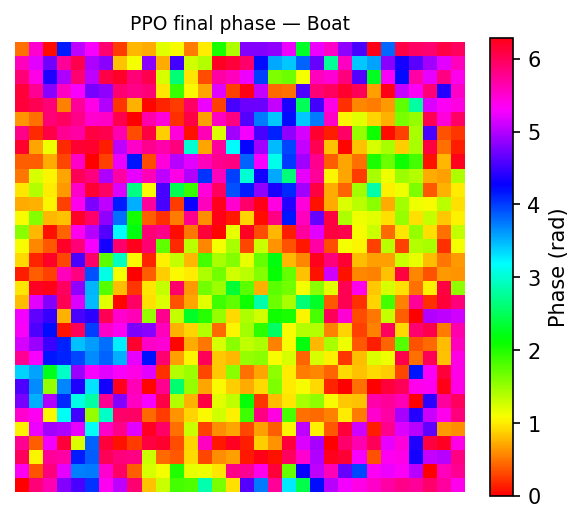
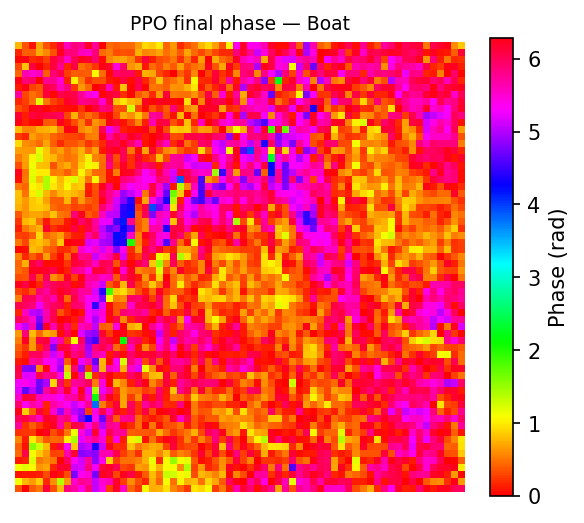
修改了一些

diff --git a/train_holographic_ppo.py b/train_holographic_ppo.py
@@ -150,9 +150,14 @@ class HolographicTask:
 # 训练循环
 # ---------------------------------------------------------------------------
 
-def train(task, policy, trainer, n_iter, M, eval_every, snap_iters):
+def train(task, policy, trainer, n_iter, M, eval_every, snap_iters,
+          sigma_final: float = None):
     """
     执行 PPO 训练循环。
+
+    Args:
+        sigma_final : 若指定，则 sigma 从初始值线性退火到 sigma_final；
+                      退火有助于后期精细收敛，推荐设为 sigma/4 左右。
 
     Returns:
         times_sec : list[float] —— 每次评估的 wall-clock 时间 (s)
@@ -165,7 +170,15 @@ def train(task, policy, trainer, n_iter, M, eval_every, snap_iters):
     seen_snaps = set()
     t0 = time.time()
 
+    sigma_init = policy.sigma
+    do_anneal  = (sigma_final is not None) and (sigma_final < sigma_init)
+
     for it in range(1, n_iter + 1):
+        # sigma 线性退火：前期大探索，后期精细收敛
+        if do_anneal:
+            alpha = (it - 1) / max(n_iter - 1, 1)
+            policy.sigma = sigma_init * (1.0 - alpha) + sigma_final * alpha
+
         phi    = policy.sample(M)
         losses = task.compute_losses(phi)
         trainer.update(phi, losses)
@@ -182,8 +195,11 @@ def train(task, policy, trainer, n_iter, M, eval_every, snap_iters):
                 seen_snaps.add(it)
 
             if it % (eval_every * 10) == 0 or it == 1 or it == n_iter:
-                print(f"  iter={it:4d}  t={t:.1f}s  PSNR={p:.2f} dB")
+                sigma_str = f"  σ={policy.sigma:.3f}" if do_anneal else ""
+                print(f"  iter={it:4d}  t={t:.1f}s  PSNR={p:.2f} dB{sigma_str}")
 
+    # 恢复初始 sigma（避免多目标训练时状态污染）
+    policy.sigma = sigma_init
     return times_sec, psnr_vals, snapshots
 
 
@@ -320,7 +336,7 @@ def save_phase_pattern(phase, path, title):
 
 def parse_args():
     p = argparse.ArgumentParser(description='全息图像生成实验复现 (论文 Fig. 5)')
-    p.add_argument('--n_iter',         type=int,   default=10000)
+    p.add_argument('--n_iter',         type=int,   default=1000)
     p.add_argument('--M',              type=int,   default=256,
                    help='每轮采样数（论文物理：32；仿真推荐：256）')
     p.add_argument('--K',              type=int,   default=4,
@@ -329,6 +345,8 @@ def parse_args():
     p.add_argument('--lr',             type=float, default=0.3)
     p.add_argument('--epsilon',        type=float, default=0.02,
                    help='PPO 截断参数 ε')
+    p.add_argument('--sigma_final',    type=float, default=None,
+                   help='sigma 退火终止值；None = 不退火（推荐设为 sigma 的 1/3，如 0.05）')
     p.add_argument('--pixel_grouping', type=int,   default=4,
                    help='像素分组大小 g；g=1 → DOF=256')
     p.add_argument('--eval_every',     type=int,   default=20)
@@ -390,7 +408,8 @@ def main():
 
         t_vals, p_vals, snaps = train(
             task, policy, trainer,
-            args.n_iter, args.M, args.eval_every, snap_iters)
+            args.n_iter, args.M, args.eval_every, snap_iters,
+            sigma_final=args.sigma_final)
 
         all_results[target_name] = (t_vals, p_vals, snaps)
 

diff --git a/ppo.py b/ppo.py
@@ -147,7 +147,7 @@ class PPOTrainer:#
 
         # Advantages: A = −L,  normalized
         adv      = -losses#将损失值转换为优势值 A，优势值的定义是 A = -L，即损失越小优势越大。这个转换是因为 PPO 的目标是最大化优势值，而不是最小化损失值。
-        adv_norm = (adv - adv.mean()) / (adv.std() + 1e-8)
+        adv_norm = (adv - adv.mean()) / (adv.std().clamp(min=1e-3))
         adv_norm = adv_norm.detach()
 
         # Old log-probabilities (fixed reference for ratio)
@@ -159,15 +159,26 @@ class PPOTrainer:#
             self.optimizer.zero_grad()
 
             log_prob_new = self.policy.log_prob(phi_samples)
-            log_ratio    = (log_prob_new - log_prob_old).clamp(-5.0, 5.0)#裁剪，如果过大就舍去，避免数值不稳定
-            r            = torch.exp(log_ratio)#计算概率比 r = π_θ(φ) / π_θ_old(φ)，其中 π_θ(φ) 是当前策略下的概率密度，π_θ_old(φ) 是采样时策略下的概率密度。通过对 log-probability 的差值进行指数运算得到概率比 r，这个值将被用来计算 PPO 的损失函数，从而指导策略的更新。通过 clamp(-5.0, 5.0) 来限制 log_ratio 的范围，避免在计算 r 时出现数值不稳定的问题。
+            log_ratio    = (log_prob_new - log_prob_old).clamp(-5.0, 5.0)
+            r            = torch.exp(log_ratio)
 
-            surr1 = r * adv_norm#计算 PPO 的第一个损失项 surr1 = r * A'，其中 r 是概率比，A' 是归一化的优势值。这个项表示了在当前策略下，相对于旧策略的优势值乘以概率比的结果，是 PPO 损失函数中的核心部分。
-            surr2 = r.clamp(1.0 - self.epsilon, 1.0 + self.epsilon) * adv_norm#计算 PPO 的第二个损失项 surr2 = clip(r, 1−ε, 1+ε) * A'，其中 clip(r, 1−ε, 1+ε) 表示将概率比 r 限制在 [1−ε, 1+ε] 的范围内。这个项用于实现 PPO 的剪切机制，防止策略更新过大导致性能崩溃。通过比较 surr1 和 surr2，PPO 的损失函数能够在保证策略更新有效的同时，限制更新的幅度，从而提高训练的稳定性。
+            surr1 = r * adv_norm
+            surr2 = r.clamp(1.0 - self.epsilon, 1.0 + self.epsilon) * adv_norm
             ppo_loss = -torch.min(surr1, surr2).mean()
 
             ppo_loss.backward()
-            self.optimizer.step() 
+
+            # 梯度裁剪：防止 sigma 小时梯度 (phi-mu)/sigma² 爆炸导致 NaN
+            torch.nn.utils.clip_grad_norm_(self.policy.parameters(), max_norm=1.0)
+
+            # NaN 守卫：若梯度仍含 NaN 则跳过本步更新，保留参数
+            grads_ok = all(
+                p.grad is None or torch.isfinite(p.grad).all()
+                for p in self.policy.parameters()
+            )
+            if grads_ok:
+                self.optimizer.step()
+
             ppo_loss_last = ppo_loss.item()
 
         return {
